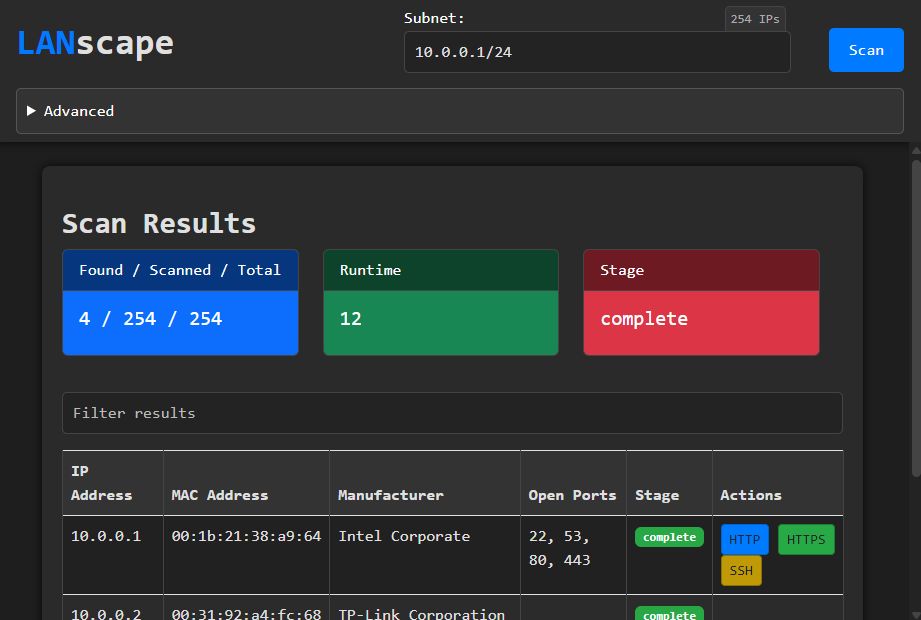
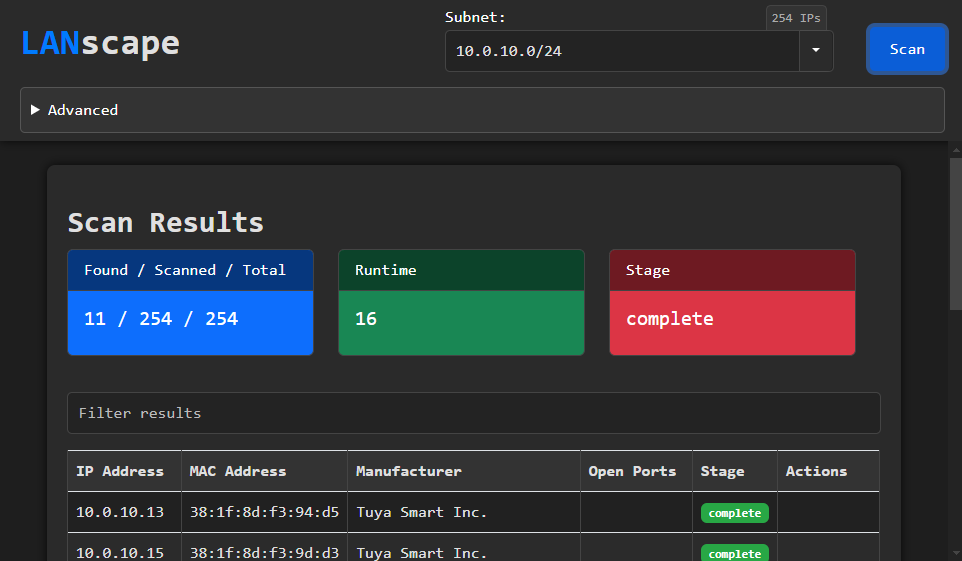
0.4.0 - Interface selection (#5)
* py3.10 bug

* readme description

* readme formatting

* changes and improvements to net_tools

* added tools blueprint for api

* added dropdown for alternate net interfaces

* changed strat for subnet validation trigger

* add validation to selecting subnet

* style

* fix browser open bug in debug

* interface error handling

* 0.4.0

* update readme img

* typo

* added address count to interface subnet lister

diff --git a/src/lanscape/templates/main.html b/src/lanscape/templates/main.html
@@ -12,7 +12,15 @@
                     <label for="subnet">Subnet:</label>
                     <div id="subnet-info"></div>
                 </div>
-                <input type="text" id="subnet" name="subnet" class="form-control" value="{{subnet}}" placeholder="Enter subnet">
+                <div class="input-group">
+                    <input type="text" id="subnet" name="subnet" class="form-control" value="{{ subnet }}" placeholder="Enter subnet">
+                    <button class="btn btn-secondary dropdown-toggle" type="button" id="subnet-dropdown" data-bs-toggle="dropdown" aria-expanded="false"></button>
+                    <ul class="dropdown-menu" aria-labelledby="subnet-dropdown" id="dropdown-list">
+                        {% for subnet_option in alternate_subnets %}
+                        <li><a class="dropdown-item" href="#">{{ subnet_option['subnet'] }}</a></li>
+                        {% endfor %}
+                    </ul>
+                </div>
             </div>
             <button type="submit" id="scan-submit" class="btn btn-primary mb-3">Scan</button>
         </form>
@@ -57,6 +65,7 @@
 
 <script src="{{ url_for('static', filename='js/main.js') }}"></script>
 <script src="{{ url_for('static', filename='js/subnet-info.js') }}"></script>
+<script src="{{ url_for('static', filename='js/subnet-selector.js') }}"></script>
 {% endblock %}
 
 

diff --git a/src/lanscape/static/css/style.css b/src/lanscape/static/css/style.css
@@ -90,7 +90,24 @@ details {
 #scan-form input {
     z-index: 2;
     transition: all .2s ease-in-out;
+    border-radius: 5px !important; /* override bootstrap stuff */
+    padding-right: 34px;
+    margin-right: -34px;
 }
+
+#scan-form .input-group button {
+    background-color: #ffffff09;
+    border: 0;
+    border-left: 1px #444 solid;
+    transition: all .2s ease-in-out;
+}
+#scan-form .input-group button:hover {
+    background-color: #ffffff0f;
+}
+#scan-form .input-group button:active {
+    background-color: #007bff;
+}
+
 .label-container {
     display: flex;
     justify-content: space-between;
@@ -412,4 +429,23 @@ input, select, button, details {
 html {
     scrollbar-width: thin;
     scrollbar-color: #444 #232323;
+}
+
+.dropdown-menu {
+    background-color: #232323;
+    border: 1px solid #444;
+    
+}
+.dropdown-menu.show{
+    width: 100%;
+    transform: translate(0px, 42px);
+}
+
+.dropdown-item {
+    color: #e0e0e0;
+}
+
+.dropdown-item:hover {
+    background-color: #444;
+    color: white;
 }

diff --git a/src/lanscape/static/js/subnet-info.js b/src/lanscape/static/js/subnet-info.js
@@ -1,12 +1,12 @@
 // Validation for subnet input
 
 $(document).ready(function() {
-    $('#subnet').keyup(() => subnetUpdated($('#subnet').val()));
+    $('#subnet').on('input', () => subnetUpdated($('#subnet').val()));
     subnetUpdated($('#subnet').val());
 });
 
 function subnetUpdated(input) {
-    $.getJSON(`/api/scan/subnet/test?subnet=${input}`,(data) => {
+    $.getJSON(`/api/tools/subnet/test?subnet=${input}`,(data) => {
         setSubnetValidity(data.valid);
         $('#subnet-info').html(data.msg);
     })

diff --git a/src/lanscape/static/js/subnet-selector.js b/src/lanscape/static/js/subnet-selector.js
@@ -1,0 +1,9 @@
+$(document).ready(function () {
+    // Update input box when selecting a dropdown item
+    $('.dropdown-item').on('click', function (e) {
+        e.preventDefault();
+        let selectedSubnet = $(this).text();
+        $('#subnet').val(selectedSubnet);  // Update input with selection
+        subnetUpdated(selectedSubnet); // from subnet-info.js
+    });
+});

diff --git a/src/lanscape/libraries/net_tools.py b/src/lanscape/libraries/net_tools.py
@@ -5,11 +5,15 @@ import subprocess
 import re
 import psutil
 import ipaddress
+import traceback
 import logging
 from .mac_lookup import lookup_mac
+from .ip_parser import get_address_count
 from scapy.all import ARP, Ether, srp
 from time import sleep
 from typing import List
+
+log = logging.getLogger('NetTools')
 
 
 class IPAlive:
@@ -123,11 +127,12 @@ class Device(IPAlive):
 
 def get_ip_address(interface: str):
     """
-    Get the IP address of a network interface.
+    Get the IP address of a network interface on Windows or Linux.
     """
     def linux():
         try:
             import fcntl
+            import struct
             sock = socket.socket(socket.AF_INET, socket.SOCK_DGRAM)
             ip_address = socket.inet_ntoa(fcntl.ioctl(
                 sock.fileno(),
@@ -137,21 +142,29 @@ def get_ip_address(interface: str):
             return ip_address
         except IOError:
             return None
+
     def windows():
-        output = subprocess.check_output("ipconfig", shell=True).decode()
-        match = re.search(r"IPv4 Address.*?:\s+(\d+\.\d+\.\d+\.\d+)", output)
-        if match:
-            return match.group(1)
+        # Get network interfaces and IP addresses using psutil
+        net_if_addrs = psutil.net_if_addrs()
+        if interface in net_if_addrs:
+            for addr in net_if_addrs[interface]:
+                if addr.family == socket.AF_INET:  # Check for IPv4
+                    return addr.address
         return None
-    
-    if platform.system() == "Windows":
+
+    # Call the appropriate function based on the platform
+    if psutil.WINDOWS:
         return windows()
-    return linux()
+    elif psutil.LINUX:
+        return linux()
+    else:
+        return None
 
 def get_netmask(interface: str):
     """
     Get the netmask of a network interface.
     """
+    
     def linux():
         try:
             import fcntl
@@ -164,14 +177,17 @@ def get_netmask(interface: str):
             return netmask
         except IOError:
             return None
+
     def windows():
         output = subprocess.check_output("ipconfig", shell=True).decode()
-        match = re.search(r"Subnet Mask.*?:\s+(\d+\.\d+\.\d+\.\d+)", output)
+        # Use a regular expression to match both interface and subnet mask
+        interface_section_pattern = rf"{interface}.*?Subnet Mask.*?:\s+(\d+\.\d+\.\d+\.\d+)"
+        match = re.search(interface_section_pattern, output, re.S)  # Use re.S to allow dot to match newline
         if match:
             return match.group(1)
         return None
     
-    if platform.system() == "Windows":
+    if psutil.WINDOWS:
         return windows()
     return linux()
 
@@ -184,15 +200,19 @@ def get_cidr_from_netmask(netmask: str):
 
 def get_primary_interface():
     """
-    Get the primary network interface.
+    Get the primary network interface based on the default gateway.
     """
-    addrs = psutil.net_if_addrs()
-    gateways = psutil.net_if_stats()
-    
-    for interface, snicaddrs in addrs.items():
-        for snicaddr in snicaddrs:
-            if snicaddr.family == socket.AF_INET and gateways[interface].isup:
-                return interface
+    # Get the default gateway information
+    gateways = psutil.net_if_addrs()
+    default_gw = psutil.net_if_stats()
+
+    # Iterate over the default gateways
+    for interface, addrs in gateways.items():
+        if default_gw[interface].isup:  # Ensure the interface is up
+            for addr in addrs:
+                if addr.family == socket.AF_INET:  # Look for IPv4 addresses
+                    return interface
+
     return None
 
 def get_host_ip_mask(ip_with_cidr: str):
@@ -203,18 +223,39 @@ def get_host_ip_mask(ip_with_cidr: str):
     network = ipaddress.ip_network(ip_with_cidr, strict=False)
     return f'{network.network_address}/{cidr}'
 
-def get_primary_network_subnet():
+def get_network_subnet(interface = get_primary_interface()):
     """
-    Get the primary network interface and subnet.
+    Get the network interface and subnet.
+    Default is primary interface
+    """ 
+    try:
+        ip_address = get_ip_address(interface)
+        netmask = get_netmask(interface)
+        cidr = get_cidr_from_netmask(netmask)
+
+        ip_mask = f'{ip_address}/{cidr}'
+
+        return get_host_ip_mask(ip_mask)
+    except:
+        log.info(f'Unable to parse subnet for interface: {interface}')
+        log.debug(traceback.format_exc())
+
+def get_all_network_subnets():
     """
-    primary_interface = get_primary_interface() 
-    ip_address = get_ip_address(primary_interface)
-    netmask = get_netmask(primary_interface)
-    cidr = get_cidr_from_netmask(netmask)
+    Get the primary network interface.
+    """
+    addrs = psutil.net_if_addrs()
+    gateways = psutil.net_if_stats()
+    subnets = []
+    
+    for interface, snicaddrs in addrs.items():
+        for snicaddr in snicaddrs:
+            if snicaddr.family == socket.AF_INET and gateways[interface].isup:
+                subnet = get_network_subnet(interface)
+                if subnet: subnets.append( 
+                    { 'subnet': subnet, 'address_cnt': get_address_count(subnet) } 
+                )
 
-    ip_mask = f'{ip_address}/{cidr}'
-
-    return get_host_ip_mask(ip_mask)
-
+    return subnets
 
 

diff --git a/src/lanscape/blueprints/api/tools.py b/src/lanscape/blueprints/api/tools.py
@@ -1,0 +1,29 @@
+from flask import request, jsonify
+from . import api_bp
+from ...libraries.net_tools import get_all_network_subnets
+from ...libraries.ip_parser import parse_ip_input, SubnetTooLargeError
+import traceback
+
+
+@api_bp.route('/api/tools/subnet/test')
+def test_subnet():
+    subnet = request.args.get('subnet')
+    if not subnet: return jsonify({'valid': False, 'msg': 'Subnet cannot be blank'})
+    try:
+        ips = parse_ip_input(subnet)
+        length = len(ips)
+        return jsonify({'valid': True, 'msg': f"{length} IP{'s' if length > 1 else ''}"})
+    except SubnetTooLargeError:
+        return jsonify({'valid': False, 'msg': 'subnet too large', 'error': traceback.format_exc()})
+    except:
+        return jsonify({'valid': False, 'msg': 'invalid subnet', 'error': traceback.format_exc()})
+    
+@api_bp.route('/api/tools/subnet/list')
+def list_subnet():
+    """
+    list all interface subets
+    """
+    try: 
+        return jsonify(get_all_network_subnets())
+    except:
+        return jsonify({'error': traceback.format_exc()})

diff --git a/src/lanscape/blueprints/web/routes.py b/src/lanscape/blueprints/web/routes.py
@@ -1,13 +1,14 @@
 from flask import render_template, request
 from . import web_bp
 from ...libraries.subnet_scan import SubnetScanner
-from ...libraries.net_tools import get_primary_network_subnet
+from ...libraries.net_tools import get_network_subnet, get_all_network_subnets
 
 # Template Renderer
 ############################################
 @web_bp.route('/', methods=['GET'])
 def index():
-    subnet = get_primary_network_subnet()
+    subnet = get_network_subnet()
+    subnets = get_all_network_subnets()
     port_list = 'medium'
     parallelism = 0.7
     if request.args.get('scan_id'):
@@ -19,7 +20,8 @@ def index():
         'main.html',
         subnet=subnet, 
         port_list=port_list, 
-        parallelism=parallelism
+        parallelism=parallelism,
+        alternate_subnets=subnets
     )
 
 @web_bp.route('/scan/<scan_id>', methods=['GET'])

diff --git a/src/lanscape/tests/test_api.py b/src/lanscape/tests/test_api.py
@@ -2,7 +2,7 @@ import _to_parent
 import unittest
 import json
 from app import app
-from libraries.net_tools import get_primary_network_subnet
+from libraries.net_tools import get_network_subnet
 from libraries.subnet_scan import cleanup_old_jobs
 
 
@@ -66,7 +66,7 @@ class AppTestCase(unittest.TestCase):
         self.assertEqual(response.status_code, 200)
 
         # Create a new scan
-        new_scan = {'subnet': get_primary_network_subnet(), 'port_list': 'test_port_list_scan'}
+        new_scan = {'subnet': get_network_subnet(), 'port_list': 'test_port_list_scan'}
         response = self.app.post('/api/scan/async', json=new_scan)
         self.assertEqual(response.status_code, 200)
         self.assertEqual(json.loads(response.data)['status'], 'complete')

diff --git a/src/lanscape/blueprints/api/scan.py b/src/lanscape/blueprints/api/scan.py
@@ -56,16 +56,3 @@ def scan_subnet_async():
 def get_scan(scan_id):
     scan = SubnetScanner.get_scan(scan_id)
     return jsonify(scan)
-
-@api_bp.route('/api/scan/subnet/test')
-def test_subnet():
-    subnet = request.args.get('subnet')
-    if not subnet: return jsonify({'valid': False, 'msg': 'Subnet cannot be blank'})
-    try:
-        ips = parse_ip_input(subnet)
-        length = len(ips)
-        return jsonify({'valid': True, 'msg': f'{length} IP{'s' if length > 1 else ''}'})
-    except SubnetTooLargeError:
-        return jsonify({'valid': False, 'msg': 'subnet too large', 'error': traceback.format_exc()})
-    except:
-        return jsonify({'valid': False, 'msg': 'invalid subnet', 'error': traceback.format_exc()})

diff --git a/src/lanscape/main.py b/src/lanscape/main.py
@@ -6,6 +6,7 @@ import argparse
 import time
 import logging
 import traceback
+import os
 from .libraries.logger import configure_logging
 
 log = logging.getLogger('core')
@@ -15,7 +16,10 @@ def main():
     args = parse_args()
     configure_logging(args.loglevel, args.logfile)
     def no_gui():
-        open_browser(f'http://127.0.0.1:{args.port}')
+        # determine if it was reloaded by flask debug reloader
+        # if it was, dont open the browser again
+        if os.environ.get("WERKZEUG_RUN_MAIN") is None:
+            open_browser(f'http://127.0.0.1:{args.port}')
         start_webserver(
             debug=args.debug,
             port=args.port

diff --git a/src/lanscape/libraries/ip_parser.py b/src/lanscape/libraries/ip_parser.py
@@ -32,6 +32,13 @@ def parse_ip_input(ip_input):
             raise SubnetTooLargeError(ip_input)
     return ip_ranges
 
+def get_address_count(subnet: str):
+    try:
+        net = ipaddress.IPv4Network(subnet,strict=False)
+        return net.num_addresses
+    except:
+        return 0
+
 def parse_ip_range(entry):
     start_ip, end_ip = entry.split('-')
     start_ip = ipaddress.IPv4Address(start_ip.strip())

diff --git a/src/lanscape/blueprints/api/__init__.py b/src/lanscape/blueprints/api/__init__.py
@@ -2,4 +2,4 @@ from flask import Blueprint
 
 api_bp = Blueprint('api', __name__)
 
-from . import port, scan
+from . import port, scan, tools
